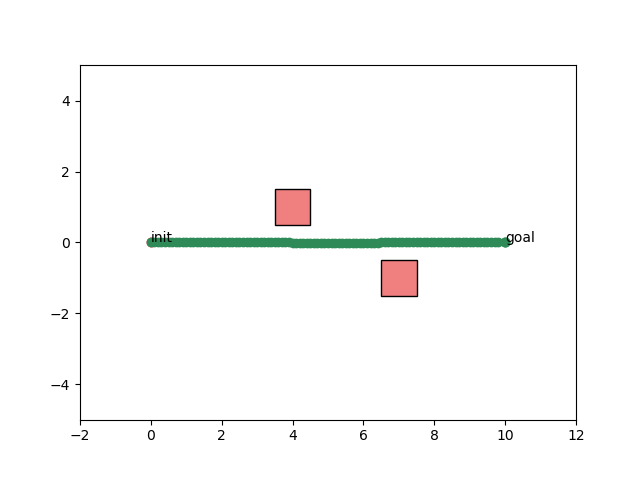
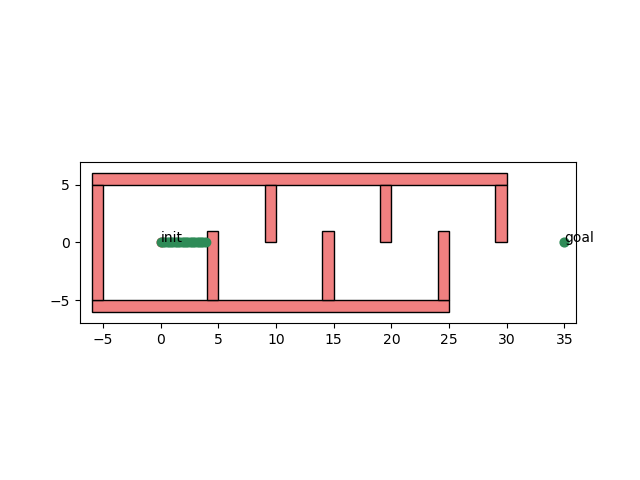
small fix after that

diff --git a/ws/hw5/main.cpp b/ws/hw5/main.cpp
@@ -24,16 +24,16 @@ int main(int argc, char** argv) {
     /* Include this line to have different randomized environments every time you run your code */
     amp::RNG::seed(amp::RNG::randiUnbounded());
 
-    // Hw5 workspace
-    Problem2D problem;
-    problem.q_init = Eigen::Vector2d(0.0, 0.0);
-    problem.q_goal = Eigen::Vector2d(10.0, 0.0);
-    problem.x_min = -2.0;
-    problem.x_max = 12.0;
-    problem.y_min = -5.0;
-    problem.y_max = 5.0;
-    problem.obstacles.push_back(createSquare(4.0, 1.0, 1.0));
-    problem.obstacles.push_back(createSquare(7.0, -1.0, 1.0));
+    // // Hw5 workspace
+    // Problem2D problem;
+    // problem.q_init = Eigen::Vector2d(0.0, 0.0);
+    // problem.q_goal = Eigen::Vector2d(10.0, 0.0);
+    // problem.x_min = -2.0;
+    // problem.x_max = 12.0;
+    // problem.y_min = -5.0;
+    // problem.y_max = 5.0;
+    // problem.obstacles.push_back(createSquare(4.0, 1.0, 1.0));
+    // problem.obstacles.push_back(createSquare(7.0, -1.0, 1.0));
 
     // Random
     double d_star = 5.0; // Goal influence distance
@@ -42,13 +42,19 @@ int main(int argc, char** argv) {
     double eta    = 0.1; // Repulsive gain (increased for better obstacle avoidance)
     MyGDAlgorithm algo(d_star, zetta, Q_star, eta);
 
+    // // Option 2: HW2 Workspace 1 (Uncomment the line below to use)
+    // Problem2D problem = HW2::getWorkspace1();
+
+    // Option 3: HW2 Workspace 2 (Uncomment the line below to use)
+    Problem2D problem = HW2::getWorkspace2();
+
     // Run the planner on your chosen problem
     Path2D path = algo.plan(problem);
     LOG("Path length: " << path.length()); 
     // bool success = HW5::generateAndCheck(algo, path, problem);
     Visualizer::makeFigure(problem, path);
 
-    // Visualize your potential function on the same problem
+    // Visualize your potential function
     Visualizer::makeFigure(MyPotentialFunction{}, problem, 30);
     Visualizer::saveFigures();
     

diff --git a/ws/hw5/MyGDAlgorithm.cpp b/ws/hw5/MyGDAlgorithm.cpp
@@ -1,6 +1,6 @@
 #include "MyGDAlgorithm.h"
 #include <vector>
-#include <limits> // Required for std::numeric_limits
+#include <limits>
 #include "HelpfulClass.h"
 
 amp::Path2D MyGDAlgorithm::plan(const amp::Problem2D& problem) {
@@ -9,7 +9,7 @@ amp::Path2D MyGDAlgorithm::plan(const amp::Problem2D& problem) {
 
     // Algorithm parameters
     const double step_size = 0.1;
-    const double goal_tolerance = 0.25; // Matches the exercise's epsilon
+    const double goal_tolerance = 0.25;
     const int max_iterations = 50000;
     
     Eigen::Vector2d q_current = problem.q_init;
